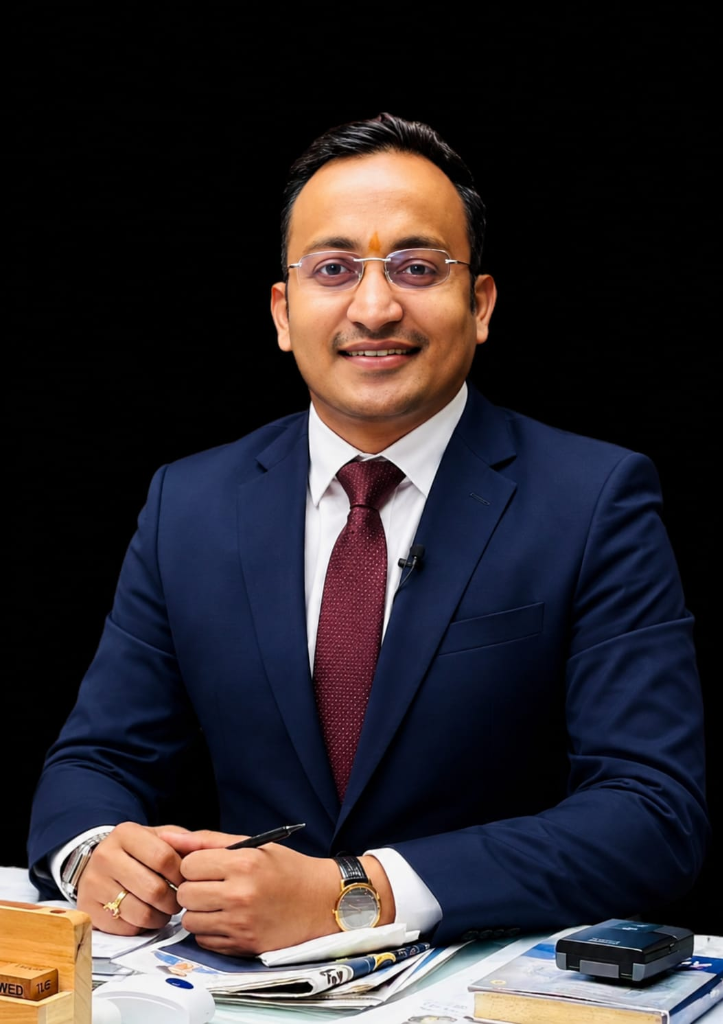
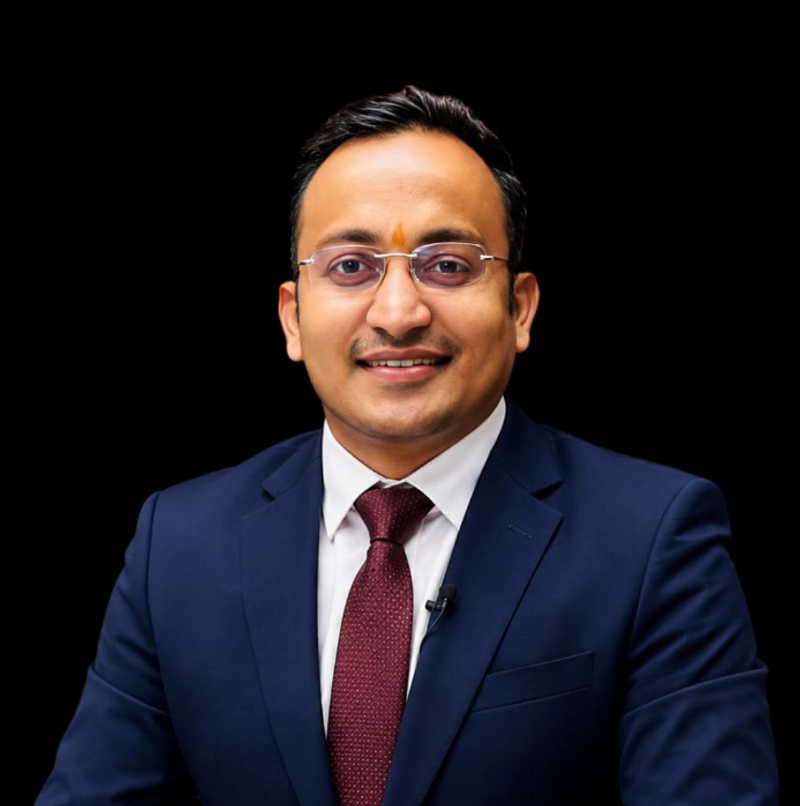
fix(faculty): dynamically render Sanity Studio crop parameters (crop & hotspot) for faculty photos

diff --git a/src/lib/content/sanity-repository.ts b/src/lib/content/sanity-repository.ts
@@ -2049,6 +2049,7 @@ export class SanityRepository implements ContentRepository {
       titleEn,
       descHi,
       descEn,
+      "rawImage": image,
       "image": image.asset->url,
       medium,
       orderIndex
@@ -2057,6 +2058,7 @@ export class SanityRepository implements ContentRepository {
     const results = await sanityFetch<any[]>({ query, revalidate: REVALIDATE, tags: ["faculties"] });
     // eslint-disable-next-line @typescript-eslint/no-explicit-any
     return (results || []).map((r: any) => {
+      const croppedImage = imageUrl(r.rawImage, { width: 800, quality: 90 });
       if (r.nameEn?.includes("Ankit") || r.nameHi?.includes("अंकित")) {
         return {
           id: r.id,
@@ -2066,7 +2068,7 @@ export class SanityRepository implements ContentRepository {
           titleEn: "HOD - Test Series, HOD - Interview Programme | Faculty",
           descHi: "एमपीपीएससी (MPPSC) एवं यूपीएससी (UPSC) अभ्यर्थियों को मार्गदर्शन देने का 8+ वर्षों का अनुभव। वे सामान्य अध्ययन (संस्कृति, जनजातियाँ, समाज), उत्तर लेखन (Answer Writing), प्रशासनिक अनुवाद एवं साक्षात्कार मार्गदर्शन में विशेषज्ञ हैं। अपनी अवधारणा-आधारित शिक्षण शैली और व्यावहारिक दृष्टिकोण के लिए जाने जाने वाले, वे सिविल सेवा परीक्षा में छात्रों की सफलता के लिए समर्पित हैं।",
           descEn: "Civil Services mentor with 8+ years of experience in guiding MPPSC and UPSC aspirants. He specializes in General Studies (culture, tribes, society), Answer Writing, Administrative Translation, and Interview Guidance. Known for his concept-based teaching and practical approach, he is dedicated to helping students achieve success in the Civil Services Examination.",
-          image: "/images/faculty/ankit_kumar_chaturvedi.png",
+          image: croppedImage || r.image || "/images/faculty/ankit_kumar_chaturvedi.png",
           medium: r.medium || "hindi",
           orderIndex: r.orderIndex || 6,
         };
@@ -2079,7 +2081,7 @@ export class SanityRepository implements ContentRepository {
         titleEn: r.titleEn || "",
         descHi: r.descHi || "",
         descEn: r.descEn || "",
-        image: r.image || "",
+        image: croppedImage || r.image || "",
         medium: r.medium || "hindi",
         orderIndex: r.orderIndex || 0,
       };
